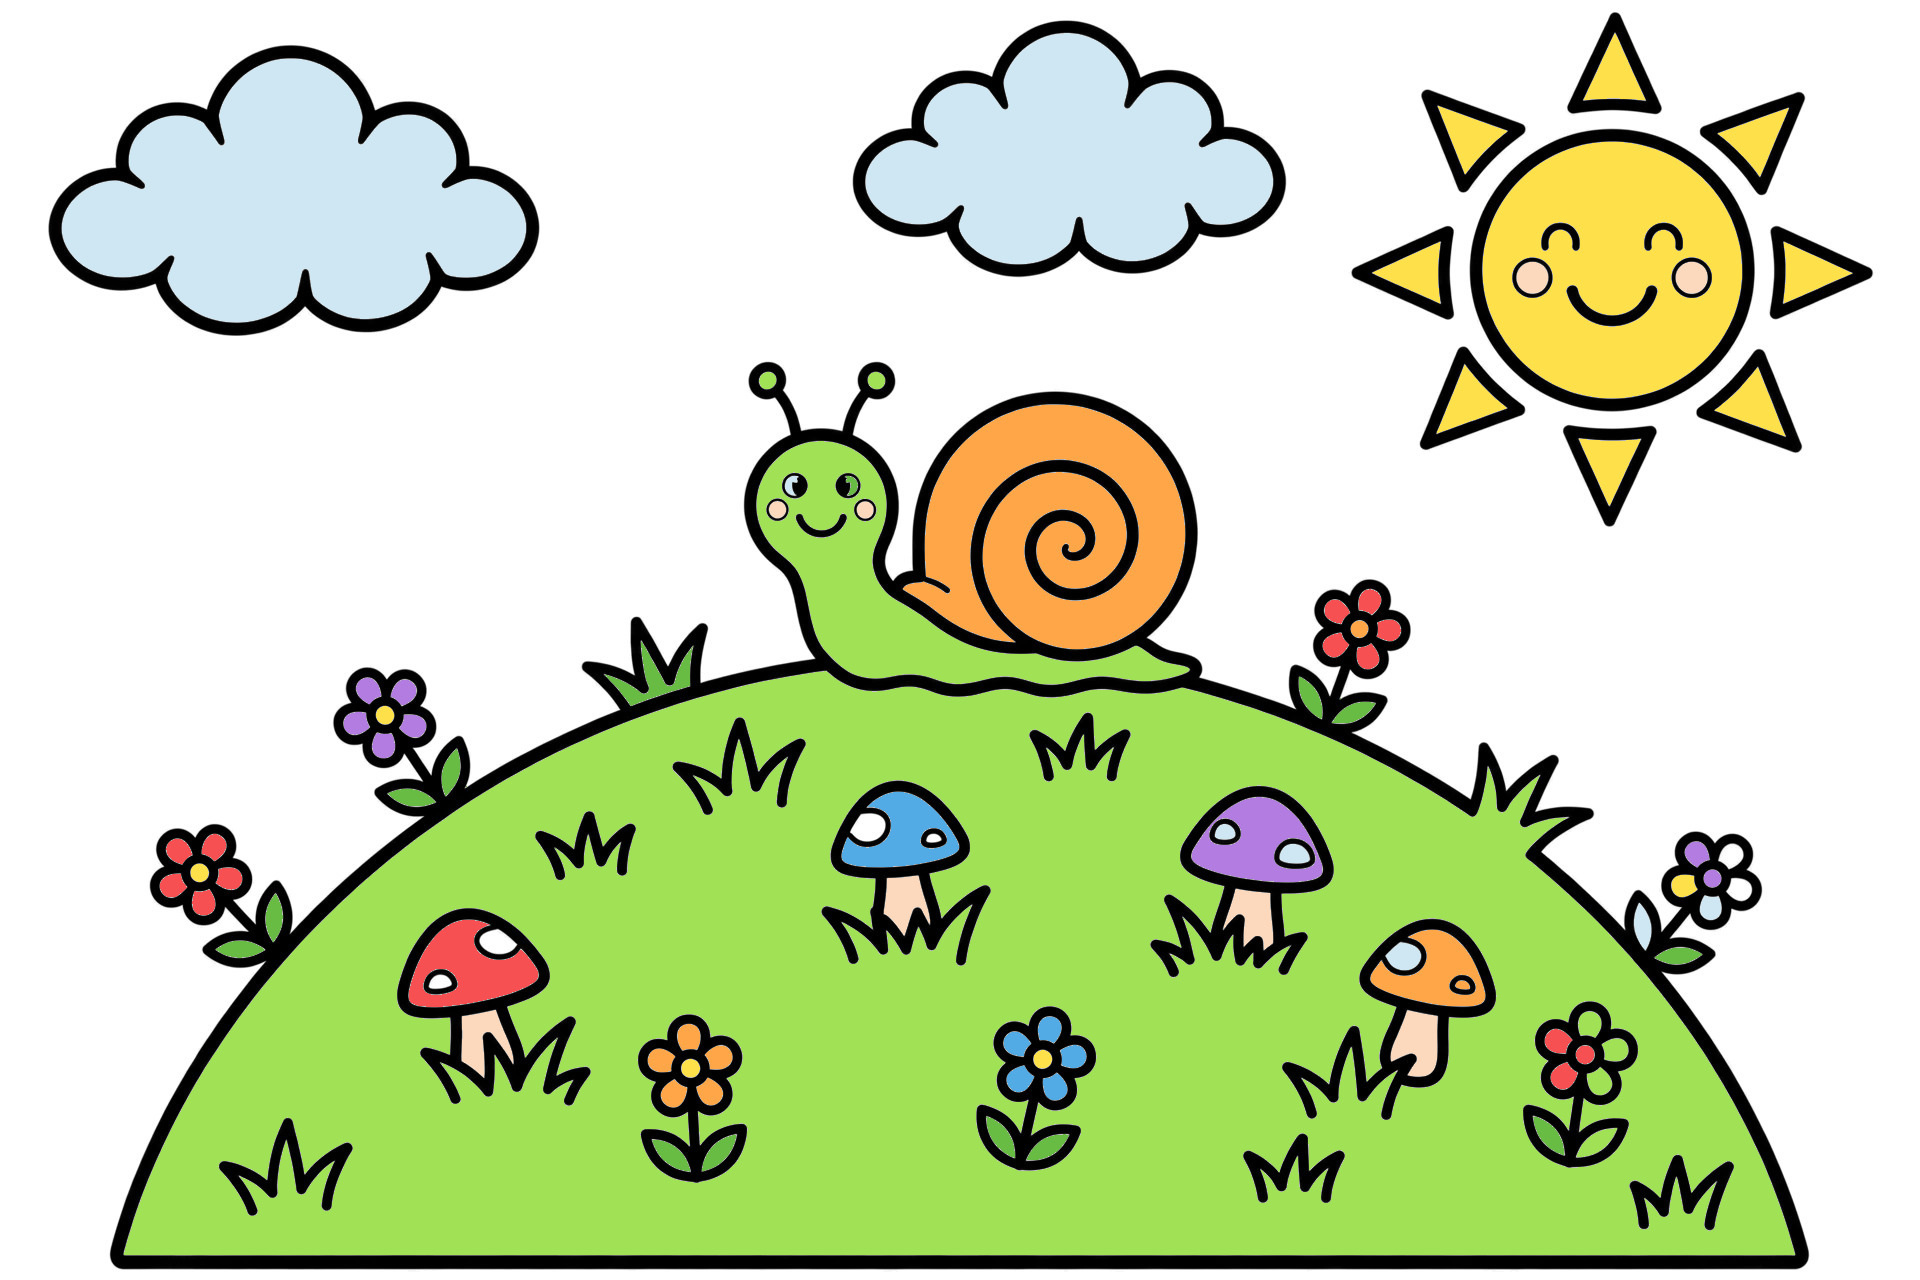
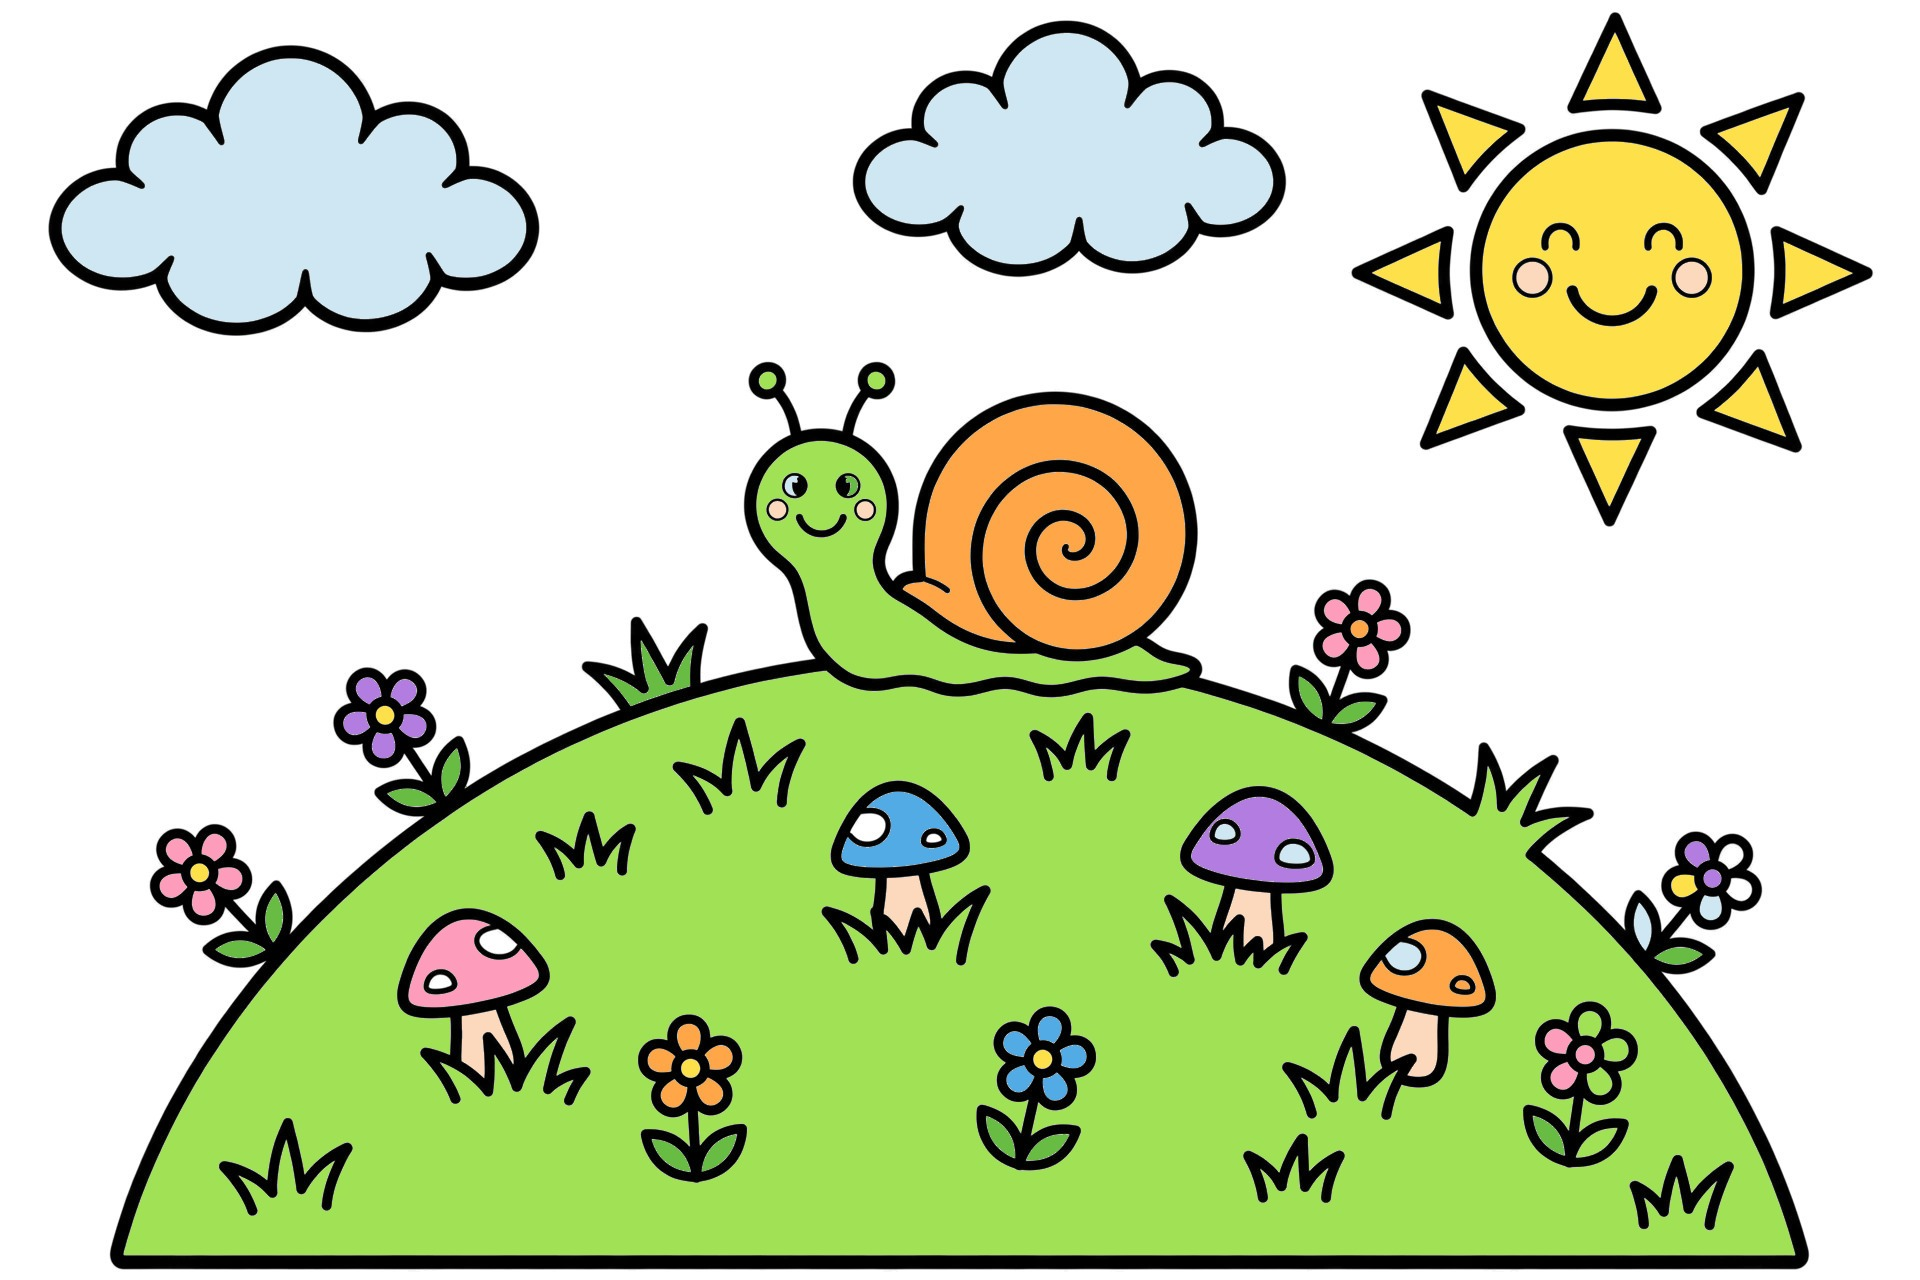
Stage 7 guide fixes: black snowman eyes/smile, white donut milk, pink snail flowers, orange lighthouse sails

diff --git a/index.html b/index.html
@@ -1565,22 +1565,22 @@ const PAGES = [
              ['Teal','#51B3BE'],['Light Green','#A6C737'],['Pink','#F49DBF'],
              ['Deep Green','#58AE50'],['Porthole Blue','#9DD6E3'],['Clam Lavender','#CAB4DF']] },
   { id:'snowman', name:'Snowman', title:'Color the Snowman!', stage:7, tool:'gel',
-    line:'assets/snowman-line-2x-v2.jpg', guide:'assets/snowman-guide.jpg',
+    line:'assets/snowman-line-2x-v2.jpg', guide:'assets/snowman-guide.jpg?v=2',
     palette:[['Pale Blue','#CAF0FD'],['Tree Green','#5FBF41'],['Hat Blue','#23A7E7'],
-             ['Scarf Red','#E64944'],['Trunk Brown','#A96538'],['Carrot Orange','#FB6F31']] },
+             ['Scarf Red','#E64944'],['Trunk Brown','#A96538'],['Carrot Orange','#FB6F31'],['Black','#000000']] },
   { id:'pizza', name:'Pizza', title:'Color the Pizza!', stage:7, tool:'gel',
     line:'assets/pizza-line-2x.jpg', guide:'assets/pizza-guide.jpg',
     palette:[['Cheese Yellow','#FFDA4E'],['Basil Green','#53B33E'],
              ['Mushroom Brown','#B8763C'],['Tomato Red','#E82727']] },
   { id:'lighthouse', name:'Lighthouse', title:'Color the Lighthouse!', stage:7, tool:'gel',
-    line:'assets/lighthouse-line-2x.jpg', guide:'assets/lighthouse-guide.jpg',
+    line:'assets/lighthouse-line-2x.jpg', guide:'assets/lighthouse-guide.jpg?v=2',
     palette:[['Sun Yellow','#FEDE50'],['Cloud Blue','#C3E4F5'],['Wave Blue','#01A1FF'],
              ['Cliff Green','#6CD030'],['Tower Red','#FF4342'],['Teal','#31A1A7'],
-             ['Bird Tan','#C69E78'],['Grass Green','#049A4E'],['Roof Red','#780B12']] },
+             ['Bird Tan','#C69E78'],['Grass Green','#049A4E'],['Sail Orange','#FEA34A']] },
   { id:'snail', name:'Snail', title:'Color the Snail!', stage:7, tool:'gel', required:false,
-    line:'assets/snail-line-2x.jpg', guide:'assets/snail-guide.jpg',
+    line:'assets/snail-line-2x.jpg', guide:'assets/snail-guide.jpg?v=2',
     palette:[['Hill Green','#A1E155'],['Cloud Blue','#CFE7F3'],['Sun Yellow','#FEE04A'],
-             ['Shell Orange','#FEA648'],['Mushroom Red','#F65052'],['Stem Tan','#FCD9BC'],
+             ['Shell Orange','#FEA648'],['Pink','#FE9CBB'],['Stem Tan','#FCD9BC'],
              ['Flower Purple','#B27CE1'],['Leaf Green','#68BB43'],['Flower Blue','#52ABE5']] },
   { id:'helicopter', name:'Helicopter', title:'Color the Helicopter!', stage:7, tool:'gel', required:false,
     line:'assets/helicopter-line-2x.jpg', guide:'assets/helicopter-guide.jpg',
@@ -1593,7 +1593,7 @@ const PAGES = [
              ['Palm Green','#63C564'],['Gem Pink','#FDB2C6'],['Gem Blue','#49B3E1'],
              ['Gem Purple','#9B66B6']] },
   { id:'donut', name:'Donut', title:'Color the Donut!', stage:7, tool:'gel', required:false,
-    line:'assets/donut-line-2x.jpg', guide:'assets/donut-guide.jpg',
+    line:'assets/donut-line-2x.jpg', guide:'assets/donut-guide.jpg?v=2',
     palette:[['Frosting Pink','#FF89A6'],['Plate Blue','#BBE1EE'],['Dough Orange','#FD9B30'],
              ['Grass Green','#6EC44C'],['Sun Yellow','#FEE148'],['Strawberry Red','#F44345'],
              ['Sprinkle Blue','#23A5D6'],['Sprinkle Purple','#9770B9']] }
